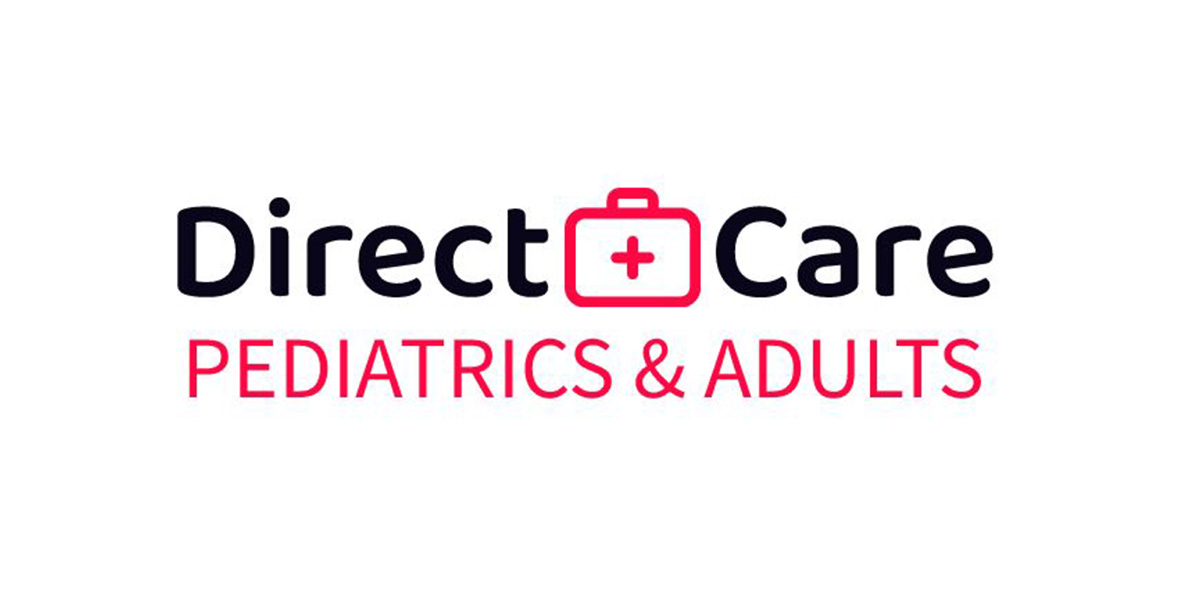
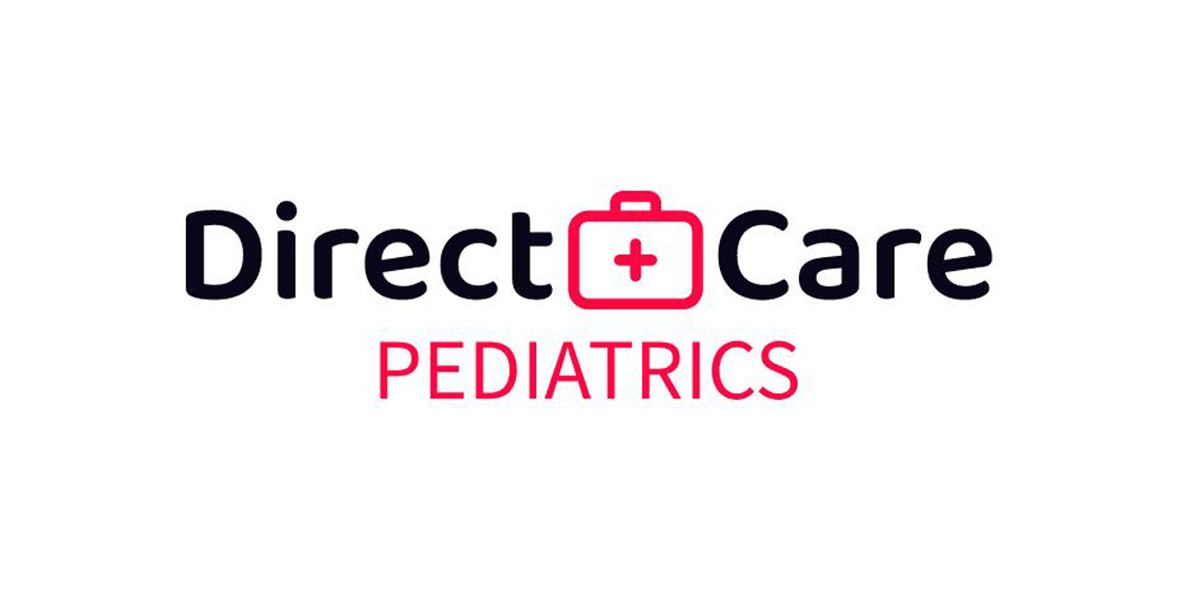
changed memberships back to pediatrics)

Changed region(s): [[0.1233, 0.3, 0.8325, 0.69]]

diff --git a/services.html b/services.html
@@ -220,7 +220,7 @@
                             </ul>
                             <p>While our clinic undergoes remodeling, we exclusively offer in-home visits, and all travel fees are waived for those who sign up for our membership within our service area. Enjoy quality pediatric care and the flexibility to cancel anytime.</p>
                             <p><small>*If the plan is ever canceled or payment is lapsed, the re-registration fee is $100 per person.</small></p>
-                            <p><small>**Family Plan consists of two adult caretakers and their minor dependents. Independent memberships are charged to any additional adult caretakers (i.e. grandparents), adult children >21, or adult children who are married.</small></p>
+                            <p><small>**Family Plan consist of all the children under age 26 for the parent(s) in one household.</small></p>
                             <div class="btn-center">
                                 <a class="btn btn-primary py-3 px-5" href="https://directcare.hint.com/signup/month-to-month-plan" target="_blank"><h4  style="color: white;">Join Now<br>Month-to-Month</h4></a>
                             </div>
@@ -238,7 +238,7 @@
                             </ul>
                             <p>While our clinic undergoes remodeling, we exclusively offer in-home visits, and all travel fees are waived for those who sign up for our membership within our service area. Enjoy quality pediatric care and the flexibility to cancel anytime.</p>
                             <p><small>*If the plan is ever canceled or payment is lapsed, the re-registration fee is $100 per person.</small></p>
-                            <p><small>**Family Plan consists of two adult caretakers and their minor dependents. Independent memberships are charged to any additional adult caretakers (i.e. grandparents), adult children >21, or adult children who are married.</small></p>
+                            <p><small>**Family Plan consist of all the children under age 26 for the parent(s) in one household.</small></p>
                             <div class="btn-center">
                                 <a class="btn btn-primary py-3 px-5 text-white" href="https://directcare.hint.com/signup/annual-commitment-plan" target="_blank"><h4 style="color: white;">Join Now<br>Annual Commitment</h4></a>
                             </div>

diff --git a/index.html b/index.html
@@ -252,7 +252,7 @@
                                 <ul>
                                     <li>Ages 0 - 2: $170/month </li>
                                     <li>Ages 2+: $85/month </li>
-                                    <li>Family Plan: $350/month** </li>
+                                    <li>Family Plan: $340/month** </li>
                                 </ul>
                                     <h4>Annual Commitment</h4>
                                 <ul>
@@ -264,7 +264,7 @@
                                     <a class="btn btn-primary py-3 px-5" href="member.html">Become a Member<i class="fa fa-arrow-right ms-2"></i></a>
                                     <p>
                                     <p><small>*If the plan is ever canceled or payment is lapsed, the re-registration fee is $100 per person.</small></p>
-                                    <small>**Family Plan consist of two adult caretakers and their minor dependents. Independent memberships are charged to any additional adult caretakers (i.e. grandparents), adult children >21, or adult children who are married.</small> 
+                                    <small>**Family Plan consist of all the children under age 26 for the parent(s) in one household.</small> 
                                     </p>                             
                                 </p>
                             </div>

diff --git a/about.html b/about.html
@@ -90,7 +90,7 @@
                     <-->
                     <a href="contact.html" class="nav-item nav-link">Contact Us</a>
                 </div>
-                <a  href="signup.html" target="_blank" class="btn btn-primary rounded-pill px-3 d-none d-lg-block">Sign Up Now<i class="fa fa-arrow-right ms-3"></i></a>
+                <a  href="signup.html" class="btn btn-primary rounded-pill px-3 d-none d-lg-block">Sign Up Now<i class="fa fa-arrow-right ms-3"></i></a>
             </div>
         </nav>
         <!-- Navbar End -->
